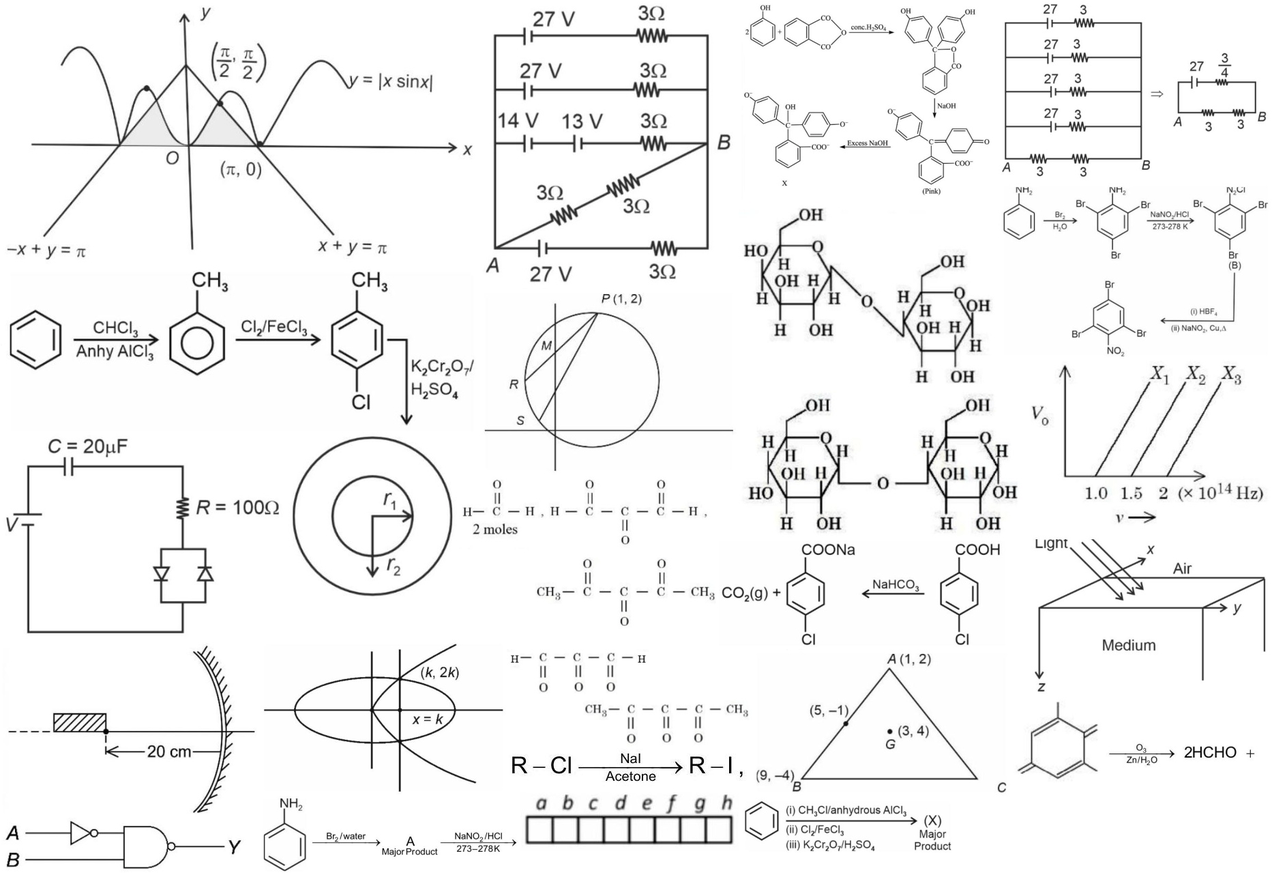
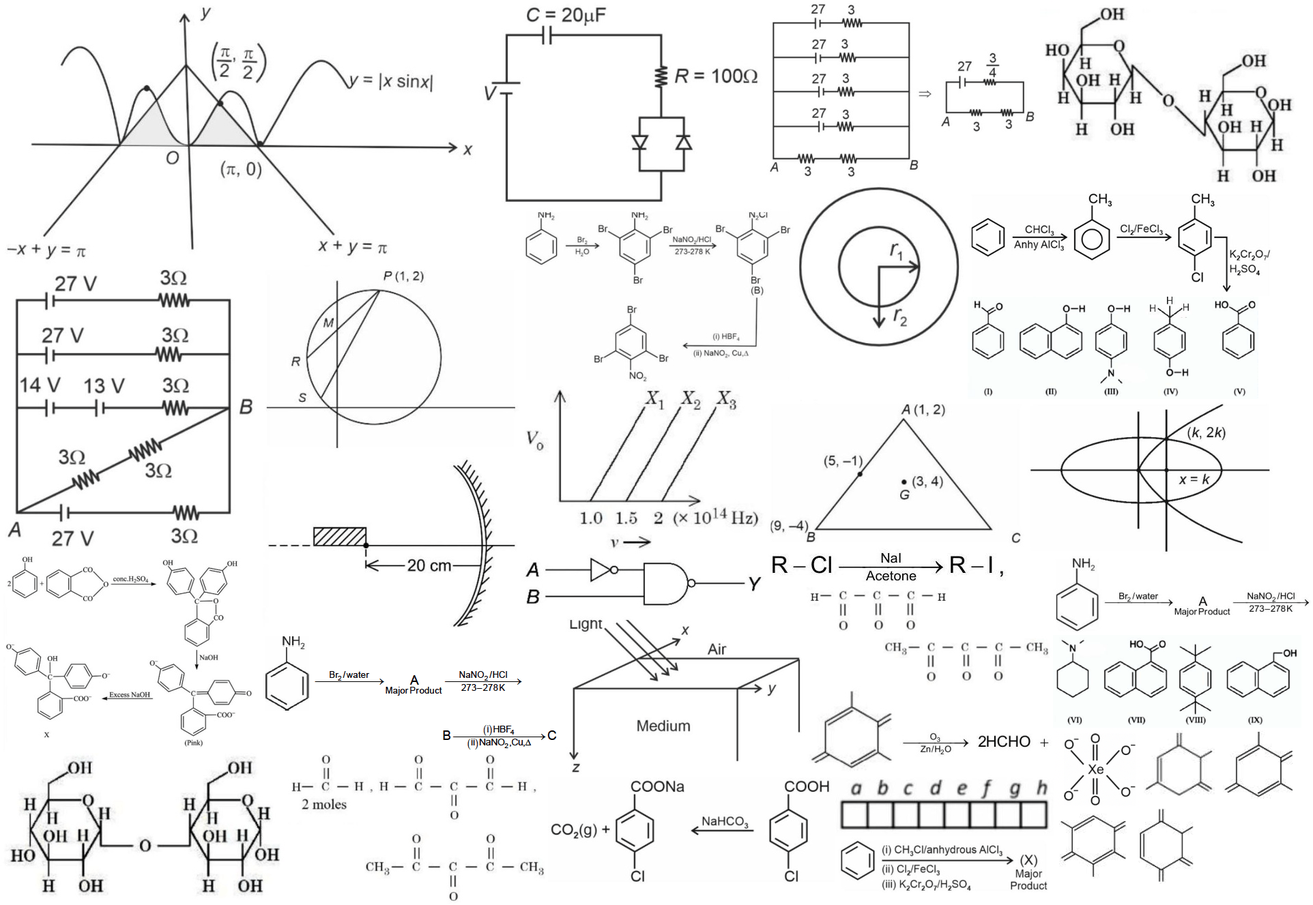
fexed

Changed region(s): [[0.0, 0.0, 0.9952, 0.9984], [0.6842, 0.4368, 0.7153, 0.468], [0.2488, 0.2496, 0.2799, 0.2808]]

diff --git a/img/jee/mains/prev/2026/jee_mn_4_apr_2026_s1.css b/img/jee/mains/prev/2026/jee_mn_4_apr_2026_s1.css
@@ -6,93 +6,118 @@ Inline:     <i class="yourspritesname"></i>
 Responsive: <div class="yourspritesname"></div>
 */
 
+.jee_mn_4_apr_2026_s1__sol_71 {max-width:126px; max-height:116px; }
+.jee_mn_4_apr_2026_s1__sol_71::after {content: '\00a0';display: inline-block; width:126px; height:116px; background-position: 85.92880978865406% 88.19157720891825%; background-size: 1526.984126984127% 1143.9655172413793%; background-image: url(jee_mn_4_apr_2026_s1_0.png);padding: 0; }
+div.jee_mn_4_apr_2026_s1__sol_71::after {max-width:126px; width:100%;height:0;padding: 0 0 92.06349206349206% 0;}
 .jee_mn_4_apr_2026_s1_q_32 {max-width:360px; max-height:248px; }
-.jee_mn_4_apr_2026_s1_q_32::after {content: '\00a0';display: inline-block; width:360px; height:248px; background-position: 99.93355481727575% 50.967117988394584%; background-size: 518.0555555555555% 516.9354838709677%; background-image: url(jee_mn_4_apr_2026_s1_0.png);padding: 0; }
+.jee_mn_4_apr_2026_s1_q_32::after {content: '\00a0';display: inline-block; width:360px; height:248px; background-position: 48.785166240409204% 52.27062094531974%; background-size: 534.4444444444445% 535.0806451612904%; background-image: url(jee_mn_4_apr_2026_s1_0.png);padding: 0; }
 div.jee_mn_4_apr_2026_s1_q_32::after {max-width:360px; width:100%;height:0;padding: 0 0 68.88888888888889% 0;}
 .jee_mn_4_apr_2026_s1_q_38 {max-width:360px; max-height:81px; }
-.jee_mn_4_apr_2026_s1_q_38::after {content: '\00a0';display: inline-block; width:360px; height:81px; background-position: 0.0664451827242525% 99.75020815986677%; background-size: 518.0555555555555% 1582.716049382716%; background-image: url(jee_mn_4_apr_2026_s1_0.png);padding: 0; }
+.jee_mn_4_apr_2026_s1_q_38::after {content: '\00a0';display: inline-block; width:360px; height:81px; background-position: 48.785166240409204% 65.24879614767255%; background-size: 534.4444444444445% 1638.2716049382716%; background-image: url(jee_mn_4_apr_2026_s1_0.png);padding: 0; }
 div.jee_mn_4_apr_2026_s1_q_38::after {max-width:360px; width:100%;height:0;padding: 0 0 22.5% 0;}
 .jee_mn_4_apr_2026_s1_q_39 {max-width:380px; max-height:260px; }
-.jee_mn_4_apr_2026_s1_q_39::after {content: '\00a0';display: inline-block; width:380px; height:260px; background-position: 0.06734006734006734% 91.68297455968688%; background-size: 490.7894736842105% 493.0769230769231%; background-image: url(jee_mn_4_apr_2026_s1_0.png);padding: 0; }
+.jee_mn_4_apr_2026_s1_q_39::after {content: '\00a0';display: inline-block; width:380px; height:260px; background-position: 24.740932642487046% 62.32427366447985%; background-size: 506.3157894736842% 510.38461538461536%; background-image: url(jee_mn_4_apr_2026_s1_0.png);padding: 0; }
 div.jee_mn_4_apr_2026_s1_q_39::after {max-width:380px; width:100%;height:0;padding: 0 0 68.42105263157895% 0;}
 .jee_mn_4_apr_2026_s1_q_42 {max-width:420px; max-height:303px; }
-.jee_mn_4_apr_2026_s1_q_42::after {content: '\00a0';display: inline-block; width:420px; height:303px; background-position: 0.06920415224913495% 64.65781409601634%; background-size: 444.04761904761904% 423.1023102310231%; background-image: url(jee_mn_4_apr_2026_s1_0.png);padding: 0; }
+.jee_mn_4_apr_2026_s1_q_42::after {content: '\00a0';display: inline-block; width:420px; height:303px; background-position: 46.67553191489362% 0.09765625%; background-size: 458.0952380952381% 437.95379537953795%; background-image: url(jee_mn_4_apr_2026_s1_0.png);padding: 0; }
 div.jee_mn_4_apr_2026_s1_q_42::after {max-width:420px; width:100%;height:0;padding: 0 0 72.14285714285714% 0;}
 .jee_mn_4_apr_2026_s1_q_43 {max-width:380px; max-height:420px; }
-.jee_mn_4_apr_2026_s1_q_43::after {content: '\00a0';display: inline-block; width:380px; height:420px; background-position: 47.27272727272727% 0.11600928074245939%; background-size: 490.7894736842105% 305.23809523809524%; background-image: url(jee_mn_4_apr_2026_s1_0.png);padding: 0; }
+.jee_mn_4_apr_2026_s1_q_43::after {content: '\00a0';display: inline-block; width:380px; height:420px; background-position: 0.06476683937823834% 42.88864388092613%; background-size: 506.3157894736842% 315.95238095238096%; background-image: url(jee_mn_4_apr_2026_s1_0.png);padding: 0; }
 div.jee_mn_4_apr_2026_s1_q_43::after {max-width:380px; width:100%;height:0;padding: 0 0 110.52631578947368% 0;}
 .jee_mn_4_apr_2026_s1_q_45 {max-width:360px; max-height:244px; }
-.jee_mn_4_apr_2026_s1_q_45::after {content: '\00a0';display: inline-block; width:360px; height:244px; background-position: 99.93355481727575% 74.75915221579962%; background-size: 518.0555555555555% 525.4098360655738%; background-image: url(jee_mn_4_apr_2026_s1_0.png);padding: 0; }
+.jee_mn_4_apr_2026_s1_q_45::after {content: '\00a0';display: inline-block; width:360px; height:244px; background-position: 52.49360613810742% 82.64081255771006%; background-size: 534.4444444444445% 543.8524590163935%; background-image: url(jee_mn_4_apr_2026_s1_0.png);padding: 0; }
 div.jee_mn_4_apr_2026_s1_q_45::after {max-width:360px; width:100%;height:0;padding: 0 0 67.77777777777777% 0;}
 .jee_mn_4_apr_2026_s1_q_64 {max-width:380px; max-height:224px; }
-.jee_mn_4_apr_2026_s1_q_64::after {content: '\00a0';display: inline-block; width:380px; height:224px; background-position: 45.31986531986532% 65.97353497164461%; background-size: 490.7894736842105% 572.3214285714286%; background-image: url(jee_mn_4_apr_2026_s1_0.png);padding: 0; }
+.jee_mn_4_apr_2026_s1_q_64::after {content: '\00a0';display: inline-block; width:380px; height:224px; background-position: 27.33160621761658% 99.90933816863101%; background-size: 506.3157894736842% 592.4107142857143%; background-image: url(jee_mn_4_apr_2026_s1_0.png);padding: 0; }
 div.jee_mn_4_apr_2026_s1_q_64::after {max-width:380px; width:100%;height:0;padding: 0 0 58.94736842105263% 0;}
+.jee_mn_4_apr_2026_s1_q_64_1 {max-width:116px; max-height:107px; }
+.jee_mn_4_apr_2026_s1_q_64_1::after {content: '\00a0';display: inline-block; width:116px; height:107px; background-position: 92.47787610619469% 87.54098360655738%; background-size: 1658.6206896551723% 1240.1869158878505%; background-image: url(jee_mn_4_apr_2026_s1_0.png);padding: 0; }
+div.jee_mn_4_apr_2026_s1_q_64_1::after {max-width:116px; width:100%;height:0;padding: 0 0 92.24137931034483% 0;}
+.jee_mn_4_apr_2026_s1_q_64_2 {max-width:99px; max-height:114px; }
+.jee_mn_4_apr_2026_s1_q_64_2::after {content: '\00a0';display: inline-block; width:99px; height:114px; background-position: 90.9041095890411% 97.6916735366859%; background-size: 1943.4343434343434% 1164.0350877192982%; background-image: url(jee_mn_4_apr_2026_s1_0.png);padding: 0; }
+div.jee_mn_4_apr_2026_s1_q_64_2::after {max-width:99px; width:100%;height:0;padding: 0 0 115.15151515151516% 0;}
+.jee_mn_4_apr_2026_s1_q_64_3 {max-width:113px; max-height:111px; }
+.jee_mn_4_apr_2026_s1_q_64_3::after {content: '\00a0';display: inline-block; width:113px; height:111px; background-position: 85.3119823302043% 97.45065789473684%; background-size: 1702.654867256637% 1195.4954954954956%; background-image: url(jee_mn_4_apr_2026_s1_0.png);padding: 0; }
+div.jee_mn_4_apr_2026_s1_q_64_3::after {max-width:113px; width:100%;height:0;padding: 0 0 98.23008849557522% 0;}
+.jee_mn_4_apr_2026_s1_q_64_4 {max-width:113px; max-height:107px; }
+.jee_mn_4_apr_2026_s1_q_64_4::after {content: '\00a0';display: inline-block; width:113px; height:107px; background-position: 98.78520154610712% 87.54098360655738%; background-size: 1702.654867256637% 1240.1869158878505%; background-image: url(jee_mn_4_apr_2026_s1_0.png);padding: 0; }
+div.jee_mn_4_apr_2026_s1_q_64_4::after {max-width:113px; width:100%;height:0;padding: 0 0 94.69026548672566% 0;}
+.jee_mn_4_apr_2026_s1_q_66_1 {max-width:431px; max-height:150px; }
+.jee_mn_4_apr_2026_s1_q_66_1::after {content: '\00a0';display: inline-block; width:431px; height:150px; background-position: 94.77561955793703% 36.958368734069666%; background-size: 446.40371229698377% 884.6666666666666%; background-image: url(jee_mn_4_apr_2026_s1_0.png);padding: 0; }
+div.jee_mn_4_apr_2026_s1_q_66_1::after {max-width:431px; width:100%;height:0;padding: 0 0 34.80278422273782% 0;}
+.jee_mn_4_apr_2026_s1_q_66_2 {max-width:364px; max-height:136px; }
+.jee_mn_4_apr_2026_s1_q_66_2::after {content: '\00a0';display: inline-block; width:364px; height:136px; background-position: 98.91025641025641% 78.1696053736356%; background-size: 528.5714285714286% 975.7352941176471%; background-image: url(jee_mn_4_apr_2026_s1_0.png);padding: 0; }
+div.jee_mn_4_apr_2026_s1_q_66_2::after {max-width:364px; width:100%;height:0;padding: 0 0 37.362637362637365% 0;}
 .jee_mn_4_apr_2026_s1_q_67 {max-width:380px; max-height:115px; }
-.jee_mn_4_apr_2026_s1_q_67::after {content: '\00a0';display: inline-block; width:380px; height:115px; background-position: 25.723905723905723% 99.91431019708655%; background-size: 490.7894736842105% 1114.7826086956522%; background-image: url(jee_mn_4_apr_2026_s1_0.png);padding: 0; }
+.jee_mn_4_apr_2026_s1_q_67::after {content: '\00a0';display: inline-block; width:380px; height:115px; background-position: 99.93523316062176% 67.24422442244224%; background-size: 506.3157894736842% 1153.9130434782608%; background-image: url(jee_mn_4_apr_2026_s1_0.png);padding: 0; }
 div.jee_mn_4_apr_2026_s1_q_67::after {max-width:380px; width:100%;height:0;padding: 0 0 30.263157894736842% 0;}
+.jee_mn_4_apr_2026_s1_q_67 {max-width:438px; max-height:175px; }
+.jee_mn_4_apr_2026_s1_q_67::after {content: '\00a0';display: inline-block; width:438px; height:175px; background-position: 25.706594885598925% 80.38194444444444%; background-size: 439.26940639269407% 758.2857142857143%; background-image: url(jee_mn_4_apr_2026_s1_0.png);padding: 0; }
+div.jee_mn_4_apr_2026_s1_q_67::after {max-width:438px; width:100%;height:0;padding: 0 0 39.954337899543376% 0;}
 .jee_mn_4_apr_2026_s1_q_68_1 {max-width:420px; max-height:219px; }
-.jee_mn_4_apr_2026_s1_q_68_1::after {content: '\00a0';display: inline-block; width:420px; height:219px; background-position: 74.94809688581314% 53.80997177798683%; background-size: 444.04761904761904% 585.3881278538813%; background-image: url(jee_mn_4_apr_2026_s1_0.png);padding: 0; }
+.jee_mn_4_apr_2026_s1_q_68_1::after {content: '\00a0';display: inline-block; width:420px; height:219px; background-position: 0.06648936170212766% 99.63898916967509%; background-size: 458.0952380952381% 605.9360730593608%; background-image: url(jee_mn_4_apr_2026_s1_0.png);padding: 0; }
 div.jee_mn_4_apr_2026_s1_q_68_1::after {max-width:420px; width:100%;height:0;padding: 0 0 52.142857142857146% 0;}
 .jee_mn_4_apr_2026_s1_q_68_2 {max-width:380px; max-height:276px; }
-.jee_mn_4_apr_2026_s1_q_68_2::after {content: '\00a0';display: inline-block; width:380px; height:276px; background-position: 72.92929292929293% 29.324055666003975%; background-size: 490.7894736842105% 464.4927536231884%; background-image: url(jee_mn_4_apr_2026_s1_0.png);padding: 0; }
+.jee_mn_4_apr_2026_s1_q_68_2::after {content: '\00a0';display: inline-block; width:380px; height:276px; background-position: 98.70466321243524% 0.09514747859181731%; background-size: 506.3157894736842% 480.7971014492754%; background-image: url(jee_mn_4_apr_2026_s1_0.png);padding: 0; }
 div.jee_mn_4_apr_2026_s1_q_68_2::after {max-width:380px; width:100%;height:0;padding: 0 0 72.63157894736842% 0;}
 .jee_mn_4_apr_2026_s1_q_70 {max-width:380px; max-height:293px; }
-.jee_mn_4_apr_2026_s1_q_70::after {content: '\00a0';display: inline-block; width:380px; height:293px; background-position: 72.92929292929293% 0.10111223458038422%; background-size: 490.7894736842105% 437.54266211604096%; background-image: url(jee_mn_4_apr_2026_s1_0.png);padding: 0; }
+.jee_mn_4_apr_2026_s1_q_70::after {content: '\00a0';display: inline-block; width:380px; height:293px; background-position: 0.06476683937823834% 78.33655705996132%; background-size: 506.3157894736842% 452.901023890785%; background-image: url(jee_mn_4_apr_2026_s1_0.png);padding: 0; }
 div.jee_mn_4_apr_2026_s1_q_70::after {max-width:380px; width:100%;height:0;padding: 0 0 77.10526315789474% 0;}
 .jee_mn_4_apr_2026_s1_q_72 {max-width:320px; max-height:87px; }
-.jee_mn_4_apr_2026_s1_q_72::after {content: '\00a0';display: inline-block; width:320px; height:87px; background-position: 70.16181229773463% 97.74058577405857%; background-size: 582.8125% 1473.5632183908046%; background-image: url(jee_mn_4_apr_2026_s1_0.png);padding: 0; }
+.jee_mn_4_apr_2026_s1_q_72::after {content: '\00a0';display: inline-block; width:320px; height:87px; background-position: 76.30922693266832% 98.95161290322581%; background-size: 601.25% 1525.287356321839%; background-image: url(jee_mn_4_apr_2026_s1_0.png);padding: 0; }
 div.jee_mn_4_apr_2026_s1_q_72::after {max-width:320px; width:100%;height:0;padding: 0 0 27.1875% 0;}
 .jee_mn_4_apr_2026_s1_sol_12 {max-width:380px; max-height:216px; }
-.jee_mn_4_apr_2026_s1_sol_12::after {content: '\00a0';display: inline-block; width:380px; height:216px; background-position: 74.34343434343434% 89.21200750469043%; background-size: 490.7894736842105% 593.5185185185185%; background-image: url(jee_mn_4_apr_2026_s1_0.png);padding: 0; }
+.jee_mn_4_apr_2026_s1_sol_12::after {content: '\00a0';display: inline-block; width:380px; height:216px; background-position: 72.79792746113989% 52.74527452745274%; background-size: 506.3157894736842% 614.3518518518518%; background-image: url(jee_mn_4_apr_2026_s1_0.png);padding: 0; }
 div.jee_mn_4_apr_2026_s1_sol_12::after {max-width:380px; width:100%;height:0;padding: 0 0 56.8421052631579% 0;}
 .jee_mn_4_apr_2026_s1_sol_13 {max-width:380px; max-height:275px; }
-.jee_mn_4_apr_2026_s1_sol_13::after {content: '\00a0';display: inline-block; width:380px; height:275px; background-position: 47.27272727272727% 41.906653426017876%; background-size: 490.7894736842105% 466.1818181818182%; background-image: url(jee_mn_4_apr_2026_s1_0.png);padding: 0; }
+.jee_mn_4_apr_2026_s1_sol_13::after {content: '\00a0';display: inline-block; width:380px; height:275px; background-position: 24.740932642487046% 36.97718631178707%; background-size: 506.3157894736842% 482.54545454545456%; background-image: url(jee_mn_4_apr_2026_s1_0.png);padding: 0; }
 div.jee_mn_4_apr_2026_s1_sol_13::after {max-width:380px; width:100%;height:0;padding: 0 0 72.36842105263158% 0;}
 .jee_mn_4_apr_2026_s1_sol_18 {max-width:700px; max-height:387px; }
-.jee_mn_4_apr_2026_s1_sol_18::after {content: '\00a0';display: inline-block; width:700px; height:387px; background-position: 0.08583690987124463% 0.11173184357541899%; background-size: 266.42857142857144% 331.26614987080103%; background-image: url(jee_mn_4_apr_2026_s1_0.png);padding: 0; }
+.jee_mn_4_apr_2026_s1_sol_18::after {content: '\00a0';display: inline-block; width:700px; height:387px; background-position: 0.08169934640522876% 0.10638297872340426%; background-size: 274.85714285714283% 342.89405684754524%; background-image: url(jee_mn_4_apr_2026_s1_0.png);padding: 0; }
 div.jee_mn_4_apr_2026_s1_sol_18::after {max-width:700px; width:100%;height:0;padding: 0 0 55.285714285714285% 0;}
 .jee_mn_4_apr_2026_s1_sol_21 {max-width:320px; max-height:93px; }
-.jee_mn_4_apr_2026_s1_sol_21::after {content: '\00a0';display: inline-block; width:320px; height:93px; background-position: 49.385113268608414% 97.05634987384357%; background-size: 582.8125% 1378.494623655914%; background-image: url(jee_mn_4_apr_2026_s1_0.png);padding: 0; }
+.jee_mn_4_apr_2026_s1_sol_21::after {content: '\00a0';display: inline-block; width:320px; height:93px; background-position: 76.30922693266832% 91.81523500810373%; background-size: 601.25% 1426.8817204301076%; background-image: url(jee_mn_4_apr_2026_s1_0.png);padding: 0; }
 div.jee_mn_4_apr_2026_s1_sol_21::after {max-width:320px; width:100%;height:0;padding: 0 0 29.0625% 0;}
 .jee_mn_4_apr_2026_s1_sol_22 {max-width:360px; max-height:228px; }
-.jee_mn_4_apr_2026_s1_sol_22::after {content: '\00a0';display: inline-block; width:360px; height:228px; background-position: 25.38205980066445% 88.89943074003796%; background-size: 518.0555555555555% 562.280701754386%; background-image: url(jee_mn_4_apr_2026_s1_0.png);padding: 0; }
+.jee_mn_4_apr_2026_s1_sol_22::after {content: '\00a0';display: inline-block; width:360px; height:228px; background-position: 96.22762148337596% 53.32120109190173%; background-size: 534.4444444444445% 582.0175438596491%; background-image: url(jee_mn_4_apr_2026_s1_0.png);padding: 0; }
 div.jee_mn_4_apr_2026_s1_sol_22::after {max-width:360px; width:100%;height:0;padding: 0 0 63.333333333333336% 0;}
 .jee_mn_4_apr_2026_s1_sol_41 {max-width:250px; max-height:245px; }
-.jee_mn_4_apr_2026_s1_sol_41::after {content: '\00a0';display: inline-block; width:250px; height:245px; background-position: 26.13003095975232% 61.04146576663452%; background-size: 746% 523.265306122449%; background-image: url(jee_mn_4_apr_2026_s1_0.png);padding: 0; }
+.jee_mn_4_apr_2026_s1_sol_41::after {content: '\00a0';display: inline-block; width:250px; height:245px; background-position: 69.53405017921148% 24.76894639556377%; background-size: 769.6% 541.6326530612245%; background-image: url(jee_mn_4_apr_2026_s1_0.png);padding: 0; }
 div.jee_mn_4_apr_2026_s1_sol_41::after {max-width:250px; width:100%;height:0;padding: 0 0 98% 0;}
 .jee_mn_4_apr_2026_s1_sol_43 {max-width:400px; max-height:266px; }
-.jee_mn_4_apr_2026_s1_sol_43::after {content: '\00a0';display: inline-block; width:400px; height:266px; background-position: 99.93174061433447% 0.0984251968503937%; background-size: 466.25% 481.9548872180451%; background-image: url(jee_mn_4_apr_2026_s1_0.png);padding: 0; }
+.jee_mn_4_apr_2026_s1_sol_43::after {content: '\00a0';display: inline-block; width:400px; height:266px; background-position: 73.68766404199475% 0.0942507068803016%; background-size: 481% 498.8721804511278%; background-image: url(jee_mn_4_apr_2026_s1_0.png);padding: 0; }
 div.jee_mn_4_apr_2026_s1_sol_43::after {max-width:400px; width:100%;height:0;padding: 0 0 66.5% 0;}
 .jee_mn_4_apr_2026_s1_sol_64_1 {max-width:360px; max-height:126px; }
-.jee_mn_4_apr_2026_s1_sol_64_1::after {content: '\00a0';display: inline-block; width:360px; height:126px; background-position: 98.67109634551495% 88.32179930795847%; background-size: 518.0555555555555% 1017.4603174603175%; background-image: url(jee_mn_4_apr_2026_s1_0.png);padding: 0; }
+.jee_mn_4_apr_2026_s1_sol_64_1::after {content: '\00a0';display: inline-block; width:360px; height:126px; background-position: 75.57544757033249% 83.76353039134055%; background-size: 534.4444444444445% 1053.1746031746031%; background-image: url(jee_mn_4_apr_2026_s1_0.png);padding: 0; }
 div.jee_mn_4_apr_2026_s1_sol_64_1::after {max-width:360px; width:100%;height:0;padding: 0 0 35% 0;}
 .jee_mn_4_apr_2026_s1_sol_64_2 {max-width:360px; max-height:144px; }
-.jee_mn_4_apr_2026_s1_sol_64_2::after {content: '\00a0';display: inline-block; width:360px; height:144px; background-position: 49.3687707641196% 83.5676625659051%; background-size: 518.0555555555555% 890.2777777777778%; background-image: url(jee_mn_4_apr_2026_s1_0.png);padding: 0; }
+.jee_mn_4_apr_2026_s1_sol_64_2::after {content: '\00a0';display: inline-block; width:360px; height:144px; background-position: 75.57544757033249% 72.7810650887574%; background-size: 534.4444444444445% 921.5277777777778%; background-image: url(jee_mn_4_apr_2026_s1_0.png);padding: 0; }
 div.jee_mn_4_apr_2026_s1_sol_64_2::after {max-width:360px; width:100%;height:0;padding: 0 0 40% 0;}
 .jee_mn_4_apr_2026_s1_sol_65 {max-width:360px; max-height:57px; }
-.jee_mn_4_apr_2026_s1_sol_65::after {content: '\00a0';display: inline-block; width:360px; height:57px; background-position: 49.3687707641196% 89.46938775510205%; background-size: 518.0555555555555% 2249.122807017544%; background-image: url(jee_mn_4_apr_2026_s1_0.png);padding: 0; }
+.jee_mn_4_apr_2026_s1_sol_65::after {content: '\00a0';display: inline-block; width:360px; height:57px; background-position: 71.86700767263427% 63.22834645669291%; background-size: 534.4444444444445% 2328.0701754385964%; background-image: url(jee_mn_4_apr_2026_s1_0.png);padding: 0; }
 div.jee_mn_4_apr_2026_s1_sol_65::after {max-width:360px; width:100%;height:0;padding: 0 0 15.833333333333334% 0;}
 .jee_mn_4_apr_2026_s1_sol_67 {max-width:400px; max-height:258px; }
-.jee_mn_4_apr_2026_s1_sol_67::after {content: '\00a0';display: inline-block; width:400px; height:258px; background-position: 99.93174061433447% 26.171875%; background-size: 466.25% 496.8992248062016%; background-image: url(jee_mn_4_apr_2026_s1_0.png);padding: 0; }
+.jee_mn_4_apr_2026_s1_sol_67::after {content: '\00a0';display: inline-block; width:400px; height:258px; background-position: 50.06561679790026% 28.53133769878391%; background-size: 481% 514.3410852713179%; background-image: url(jee_mn_4_apr_2026_s1_0.png);padding: 0; }
 div.jee_mn_4_apr_2026_s1_sol_67::after {max-width:400px; width:100%;height:0;padding: 0 0 64.5% 0;}
-.jee_mn_4_apr_2026_s1_sol_72_1 {max-width:700px; max-height:243px; }
-.jee_mn_4_apr_2026_s1_sol_72_1::after {content: '\00a0';display: inline-block; width:700px; height:243px; background-position: 0.08583690987124463% 37.43984600577478%; background-size: 266.42857142857144% 527.5720164609054%; background-image: url(jee_mn_4_apr_2026_s1_0.png);padding: 0; }
-div.jee_mn_4_apr_2026_s1_sol_72_1::after {max-width:700px; width:100%;height:0;padding: 0 0 34.714285714285715% 0;}
+.jee_mn_4_apr_2026_s1_sol_72_1 {max-width:450px; max-height:156px; }
+.jee_mn_4_apr_2026_s1_sol_72_1::after {content: '\00a0';display: inline-block; width:450px; height:156px; background-position: 95.99728629579376% 23.740392826643895%; background-size: 427.55555555555554% 850.6410256410256%; background-image: url(jee_mn_4_apr_2026_s1_0.png);padding: 0; }
+div.jee_mn_4_apr_2026_s1_sol_72_1::after {max-width:450px; width:100%;height:0;padding: 0 0 34.666666666666664% 0;}
 .jee_mn_4_apr_2026_s1_sol_72_2 {max-width:420px; max-height:158px; }
-.jee_mn_4_apr_2026_s1_sol_72_2::after {content: '\00a0';display: inline-block; width:420px; height:158px; background-position: 72.94117647058823% 70.4626334519573%; background-size: 444.04761904761904% 811.3924050632911%; background-image: url(jee_mn_4_apr_2026_s1_0.png);padding: 0; }
+.jee_mn_4_apr_2026_s1_sol_72_2::after {content: '\00a0';display: inline-block; width:420px; height:158px; background-position: 53.390957446808514% 97.51924721984602%; background-size: 458.0952380952381% 839.873417721519%; background-image: url(jee_mn_4_apr_2026_s1_0.png);padding: 0; }
 div.jee_mn_4_apr_2026_s1_sol_72_2::after {max-width:420px; width:100%;height:0;padding: 0 0 37.61904761904762% 0;}
 
 @keyframes jee_mn_4_apr_2026_s1_q-frames {
-    0% { background-position: 99.93355481727575% 50.967117988394584%;  }
-    10% { background-position: 0.0664451827242525% 99.75020815986677%;  }
-    20% { background-position: 0.06734006734006734% 91.68297455968688%;  }
-    30% { background-position: 0.06920415224913495% 64.65781409601634%;  }
-    40% { background-position: 47.27272727272727% 0.11600928074245939%;  }
-    50% { background-position: 99.93355481727575% 74.75915221579962%;  }
-    60% { background-position: 45.31986531986532% 65.97353497164461%;  }
-    70% { background-position: 25.723905723905723% 99.91431019708655%;  }
-    80% { background-position: 72.92929292929293% 0.10111223458038422%;  }
-    90% { background-position: 70.16181229773463% 97.74058577405857%;  }
+    0% { background-position: 48.785166240409204% 52.27062094531974%;  }
+    9.090909090909092% { background-position: 48.785166240409204% 65.24879614767255%;  }
+    18.181818181818183% { background-position: 24.740932642487046% 62.32427366447985%;  }
+    27.27272727272727% { background-position: 46.67553191489362% 0.09765625%;  }
+    36.36363636363637% { background-position: 0.06476683937823834% 42.88864388092613%;  }
+    45.45454545454545% { background-position: 52.49360613810742% 82.64081255771006%;  }
+    54.54545454545454% { background-position: 27.33160621761658% 99.90933816863101%;  }
+    63.63636363636363% { background-position: 99.93523316062176% 67.24422442244224%;  }
+    72.72727272727273% { background-position: 99.93523316062176% 67.24422442244224%;  }
+    81.81818181818183% { background-position: 0.06476683937823834% 78.33655705996132%;  }
+    90.9090909090909% { background-position: 76.30922693266832% 98.95161290322581%;  }
 }
 
 .jee_mn_4_apr_2026_s1_q-animation {
@@ -106,7 +131,7 @@ div.jee_mn_4_apr_2026_s1_sol_72_2::after {max-width:420px; width:100%;height:0;p
     height: 248px;
     padding: 0;
     background-image: url(jee_mn_4_apr_2026_s1_0.png);
-    background-size: 518.0555555555555% 516.9354838709677%; 
+    background-size: 534.4444444444445% 535.0806451612904%; 
     animation-name: jee_mn_4_apr_2026_s1_q-frames;
     animation-timing-function: steps(1);
     animation-duration: 1s;
@@ -119,9 +144,69 @@ div.jee_mn_4_apr_2026_s1_q-animation::after {
     padding: 0 0 68.88888888888889% 0;
 }
 
+@keyframes jee_mn_4_apr_2026_s1_q_64-frames {
+    0% { background-position: 92.47787610619469% 87.54098360655738%;  }
+    25% { background-position: 90.9041095890411% 97.6916735366859%;  }
+    50% { background-position: 85.3119823302043% 97.45065789473684%;  }
+    75% { background-position: 98.78520154610712% 87.54098360655738%;  }
+}
+
+.jee_mn_4_apr_2026_s1_q_64-animation {
+    max-width: 116px;
+    max-height: 107px;
+}
+.jee_mn_4_apr_2026_s1_q_64-animation::after {
+    content: '\00a0';
+    display: inline-block;
+    width: 116px;
+    height: 107px;
+    padding: 0;
+    background-image: url(jee_mn_4_apr_2026_s1_0.png);
+    background-size: 1658.6206896551723% 1240.1869158878505%; 
+    animation-name: jee_mn_4_apr_2026_s1_q_64-frames;
+    animation-timing-function: steps(1);
+    animation-duration: 1s;
+    animation-iteration-count: infinite;
+}
+div.jee_mn_4_apr_2026_s1_q_64-animation::after {
+    max-width: 116px;
+    width: 100%;
+    height: 0;
+    padding: 0 0 92.24137931034483% 0;
+}
+
+@keyframes jee_mn_4_apr_2026_s1_q_66-frames {
+    0% { background-position: 94.77561955793703% 36.958368734069666%;  }
+    50% { background-position: 98.91025641025641% 78.1696053736356%;  }
+}
+
+.jee_mn_4_apr_2026_s1_q_66-animation {
+    max-width: 431px;
+    max-height: 150px;
+}
+.jee_mn_4_apr_2026_s1_q_66-animation::after {
+    content: '\00a0';
+    display: inline-block;
+    width: 431px;
+    height: 150px;
+    padding: 0;
+    background-image: url(jee_mn_4_apr_2026_s1_0.png);
+    background-size: 446.40371229698377% 884.6666666666666%; 
+    animation-name: jee_mn_4_apr_2026_s1_q_66-frames;
+    animation-timing-function: steps(1);
+    animation-duration: 1s;
+    animation-iteration-count: infinite;
+}
+div.jee_mn_4_apr_2026_s1_q_66-animation::after {
+    max-width: 431px;
+    width: 100%;
+    height: 0;
+    padding: 0 0 34.80278422273782% 0;
+}
+
 @keyframes jee_mn_4_apr_2026_s1_q_68-frames {
-    0% { background-position: 74.94809688581314% 53.80997177798683%;  }
-    50% { background-position: 72.92929292929293% 29.324055666003975%;  }
+    0% { background-position: 0.06648936170212766% 99.63898916967509%;  }
+    50% { background-position: 98.70466321243524% 0.09514747859181731%;  }
 }
 
 .jee_mn_4_apr_2026_s1_q_68-animation {
@@ -135,7 +220,7 @@ div.jee_mn_4_apr_2026_s1_q-animation::after {
     height: 219px;
     padding: 0;
     background-image: url(jee_mn_4_apr_2026_s1_0.png);
-    background-size: 444.04761904761904% 585.3881278538813%; 
+    background-size: 458.0952380952381% 605.9360730593608%; 
     animation-name: jee_mn_4_apr_2026_s1_q_68-frames;
     animation-timing-function: steps(1);
     animation-duration: 1s;
@@ -149,15 +234,15 @@ div.jee_mn_4_apr_2026_s1_q_68-animation::after {
 }
 
 @keyframes jee_mn_4_apr_2026_s1_sol-frames {
-    0% { background-position: 74.34343434343434% 89.21200750469043%;  }
-    11.11111111111111% { background-position: 47.27272727272727% 41.906653426017876%;  }
-    22.22222222222222% { background-position: 0.08583690987124463% 0.11173184357541899%;  }
-    33.33333333333333% { background-position: 49.385113268608414% 97.05634987384357%;  }
-    44.44444444444444% { background-position: 25.38205980066445% 88.89943074003796%;  }
-    55.55555555555556% { background-position: 26.13003095975232% 61.04146576663452%;  }
-    66.66666666666666% { background-position: 99.93174061433447% 0.0984251968503937%;  }
-    77.77777777777779% { background-position: 49.3687707641196% 89.46938775510205%;  }
-    88.88888888888889% { background-position: 99.93174061433447% 26.171875%;  }
+    0% { background-position: 72.79792746113989% 52.74527452745274%;  }
+    11.11111111111111% { background-position: 24.740932642487046% 36.97718631178707%;  }
+    22.22222222222222% { background-position: 0.08169934640522876% 0.10638297872340426%;  }
+    33.33333333333333% { background-position: 76.30922693266832% 91.81523500810373%;  }
+    44.44444444444444% { background-position: 96.22762148337596% 53.32120109190173%;  }
+    55.55555555555556% { background-position: 69.53405017921148% 24.76894639556377%;  }
+    66.66666666666666% { background-position: 73.68766404199475% 0.0942507068803016%;  }
+    77.77777777777779% { background-position: 71.86700767263427% 63.22834645669291%;  }
+    88.88888888888889% { background-position: 50.06561679790026% 28.53133769878391%;  }
 }
 
 .jee_mn_4_apr_2026_s1_sol-animation {
@@ -171,7 +256,7 @@ div.jee_mn_4_apr_2026_s1_q_68-animation::after {
     height: 216px;
     padding: 0;
     background-image: url(jee_mn_4_apr_2026_s1_0.png);
-    background-size: 490.7894736842105% 593.5185185185185%; 
+    background-size: 506.3157894736842% 614.3518518518518%; 
     animation-name: jee_mn_4_apr_2026_s1_sol-frames;
     animation-timing-function: steps(1);
     animation-duration: 1s;
@@ -185,8 +270,8 @@ div.jee_mn_4_apr_2026_s1_sol-animation::after {
 }
 
 @keyframes jee_mn_4_apr_2026_s1_sol_64-frames {
-    0% { background-position: 98.67109634551495% 88.32179930795847%;  }
-    50% { background-position: 49.3687707641196% 83.5676625659051%;  }
+    0% { background-position: 75.57544757033249% 83.76353039134055%;  }
+    50% { background-position: 75.57544757033249% 72.7810650887574%;  }
 }
 
 .jee_mn_4_apr_2026_s1_sol_64-animation {
@@ -200,7 +285,7 @@ div.jee_mn_4_apr_2026_s1_sol-animation::after {
     height: 126px;
     padding: 0;
     background-image: url(jee_mn_4_apr_2026_s1_0.png);
-    background-size: 518.0555555555555% 1017.4603174603175%; 
+    background-size: 534.4444444444445% 1053.1746031746031%; 
     animation-name: jee_mn_4_apr_2026_s1_sol_64-frames;
     animation-timing-function: steps(1);
     animation-duration: 1s;
@@ -214,32 +299,32 @@ div.jee_mn_4_apr_2026_s1_sol_64-animation::after {
 }
 
 @keyframes jee_mn_4_apr_2026_s1_sol_72-frames {
-    0% { background-position: 0.08583690987124463% 37.43984600577478%;  }
-    50% { background-position: 72.94117647058823% 70.4626334519573%;  }
+    0% { background-position: 95.99728629579376% 23.740392826643895%;  }
+    50% { background-position: 53.390957446808514% 97.51924721984602%;  }
 }
 
 .jee_mn_4_apr_2026_s1_sol_72-animation {
-    max-width: 700px;
-    max-height: 243px;
+    max-width: 450px;
+    max-height: 156px;
 }
 .jee_mn_4_apr_2026_s1_sol_72-animation::after {
     content: '\00a0';
     display: inline-block;
-    width: 700px;
-    height: 243px;
+    width: 450px;
+    height: 156px;
     padding: 0;
     background-image: url(jee_mn_4_apr_2026_s1_0.png);
-    background-size: 266.42857142857144% 527.5720164609054%; 
+    background-size: 427.55555555555554% 850.6410256410256%; 
     animation-name: jee_mn_4_apr_2026_s1_sol_72-frames;
     animation-timing-function: steps(1);
     animation-duration: 1s;
     animation-iteration-count: infinite;
 }
 div.jee_mn_4_apr_2026_s1_sol_72-animation::after {
-    max-width: 700px;
+    max-width: 450px;
     width: 100%;
     height: 0;
-    padding: 0 0 34.714285714285715% 0;
+    padding: 0 0 34.666666666666664% 0;
 }
 
-/* $TexturePacker:SmartUpdate:9080887c94824a22bef011e10663c116:50652c300845fe795a71110ff6d8888c:3e6c5646004b5db438d790cb5af071bb$ */
+/* $TexturePacker:SmartUpdate:83c04d3883f7b04c7b4f85efe75e8d9f:2552507dab8a2c7807c17ad0c8f243c7:3e6c5646004b5db438d790cb5af071bb$ */
